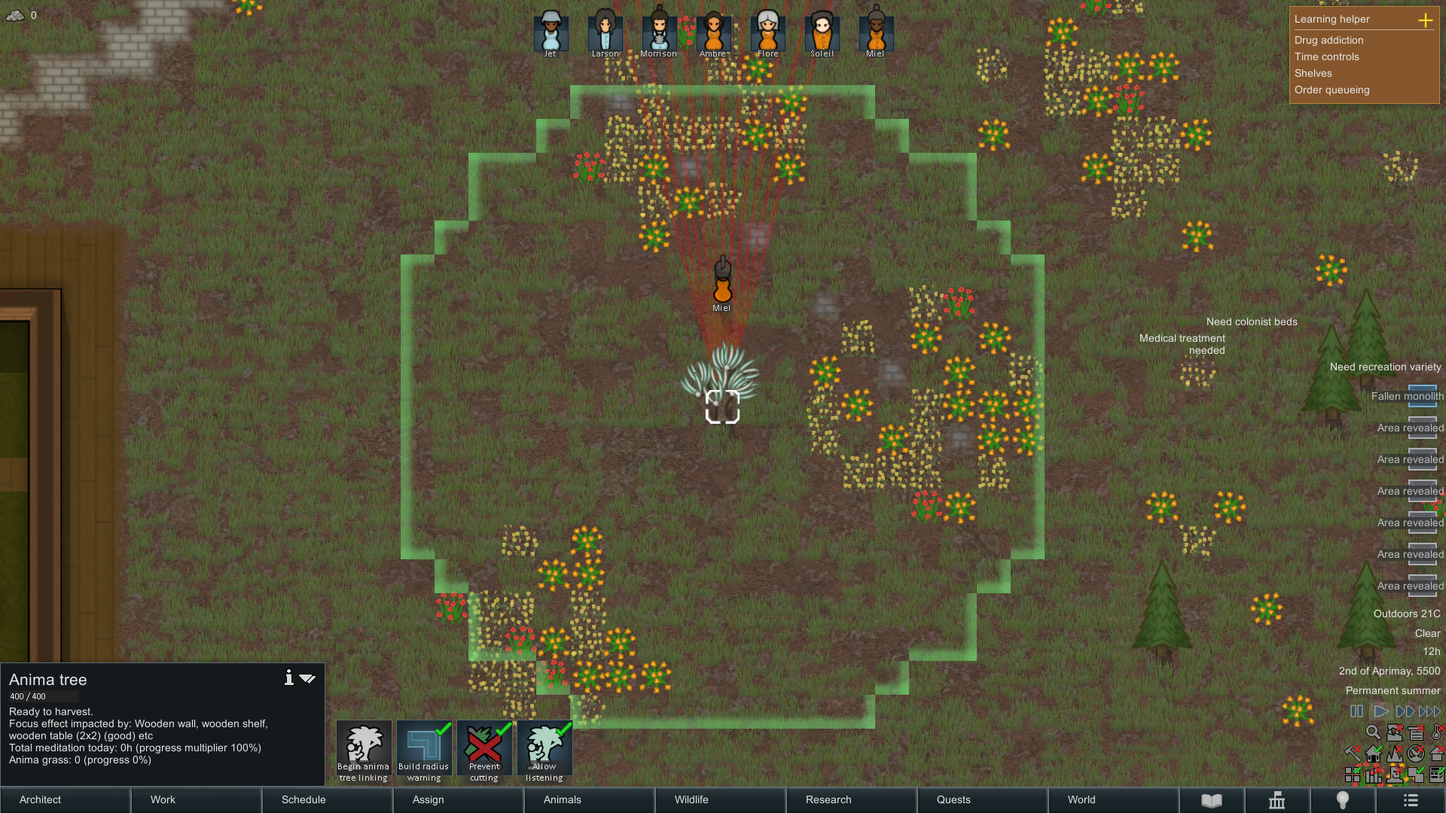
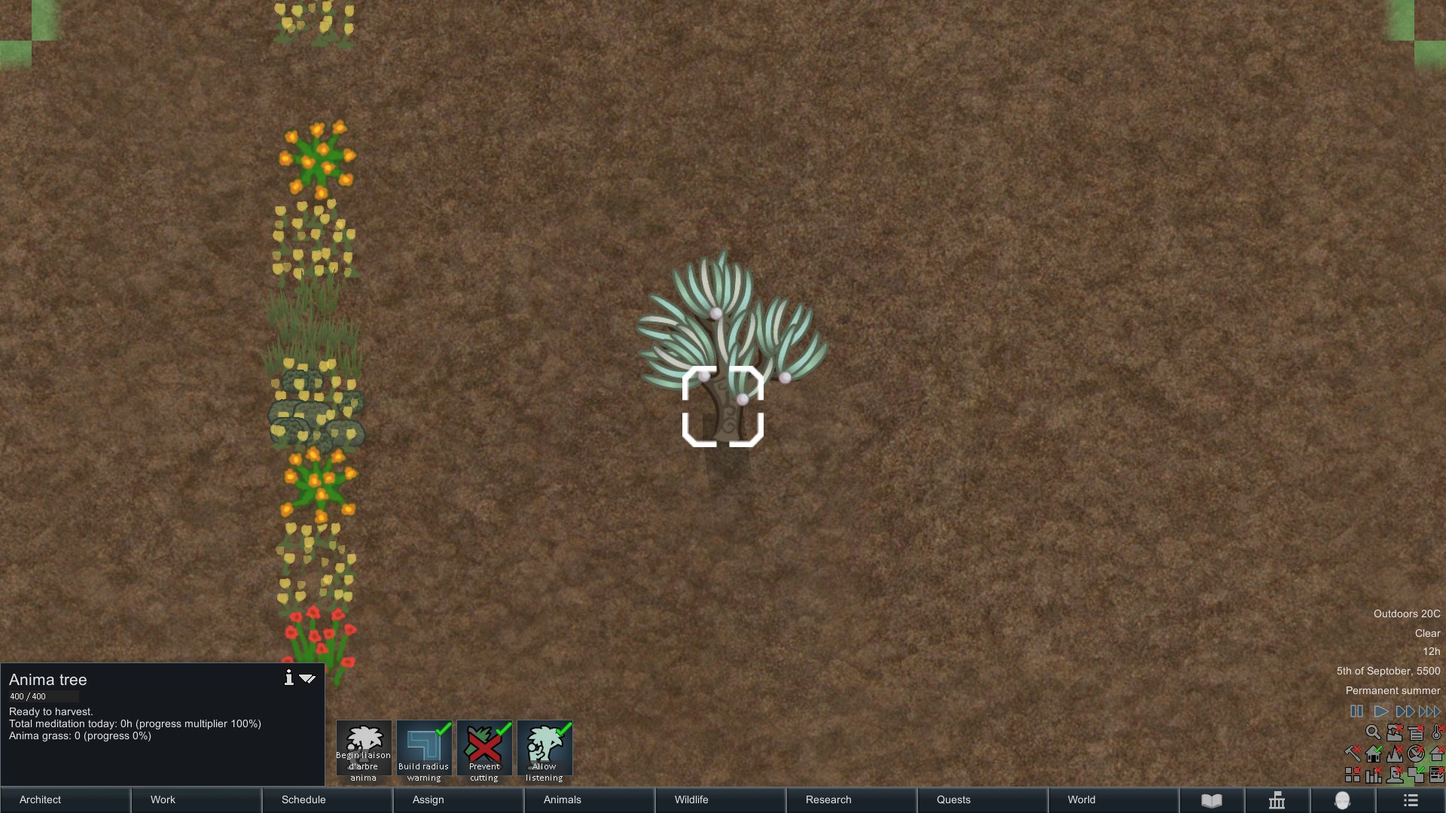
Gallery: image 3 on the Backlot, without the red focus lines
Run 4e27: the artificial buildings within 30 cells are hidden, the colonist
bar, the messages, the letters and the alerts are cleared.

diff --git a/STATUS.md b/STATUS.md
@@ -20,12 +20,11 @@ publication_changelog_review_sha: 5602e1bb6c807b7d927888d1dd711a545feee811
 code_review_sha: 23bf286757554c813a4299650528b4dd1c63864e
 remaining:
   - unverified: user report 2026-10-08 (Workshop comment): with Replantable Anima Trees (Continued) (3503586725, `Spuffy.AnimaReplant`), pawns stop listening on their own to a replanted tree (the manual order still works). NOT reproduced: that mod only removes `minifiedDef` from `Plant_TreeAnima`; replanted through the game's own install blueprint, 20 cells away, the tree keeps its object, comps and toggle, and a bored colonist (joy 10 percent, schedule joy, no work) walks to it and listens on their own (`07-replanted-tree.feature`, run 15c9, 2026-10-08). Tracked in issue #1 (labels bug, not reproduced); the commenter was asked on 2026-10-08 for the exact steps, version and delay; 2026-10-09: the commenter (Markizo) says the tree sat in a room on a gravship, and works once replanted outside; cause found, `unroofedOnly` on the giver (runs 0ef3, 589f), fixed in 5fa7c4a; still unverified that his room is roofed
-  - defect: gallery image 3 (`3-the-tree-selected.jpg`) is still the 2026-09-27 capture on the old studio, not on SanctuaryBacklot; the Backlot capture of run 135f was refused (red radius-warning lines across the frame, an untranslated "Begin liaison d'arbre anima" label); replay `the tree selected with its toggle` with those two hidden
   - unverified: the three conditional passes (sound, studio, removal) ran before 5967dd2 (a log-once guard, no behaviour change); they stand as sole proof but were not replayed on the published build
   - unverified: each sound report (09-27) holds one red, the scenario of the other modlist; replay each pass with the scenario selected by name for a report with no red
 session:      local_ae6c16b5-ec90-4f74-83f7-1d66630344c3
-updated:      2026-10-10, shootGallery[1.0.3]: playTests exit criteria hold (French texts 7398 green); gallery images 1 and 2 accepted, image 3 still the 2026-09-27 studio capture (refused on the Backlot: red radius lines); table below
-protocols_read_sha: 973768851d9eb1967a275d98fbf1c660d4fdce88
+updated:      2026-10-10, shootGallery[1.0.3]: gallery images 1 to 3 on the Backlot, image 3 accepted by the session (run 4e27); next: mountPreview, writeDocs
+protocols_read_sha: f8bf9634403f684c5a0ca2ffcd724139134fba1d
 ---
 
 # Anima Song — status
@@ -157,4 +156,4 @@ Gallery candidates of run `fc87` refused by the owner (2026-10-08) and deleted; 
 | 0 | `0-preview.png` | copy of `Mod/About/Preview.png` | in place |
 | 1 | `1-the-tree-singing.jpg` | Backlot `bare-clearing`, run `342d`, stools, 2026-10-09 | accepted by the owner, 2026-10-09 |
 | 2 | `2-the-right-click-menu.jpg` | Backlot, run `19c9`, 20C | accepted 2026-10-08 |
-| 3 | `3-the-tree-selected.jpg` | old studio, run `a32d`, 2026-09-27 | accepted then; redo on the Backlot open (`remaining`) |
+| 3 | `3-the-tree-selected.jpg` | Backlot `bare-clearing`, run `4e27`, 2026-10-10 | accepted by the session as director, 2026-10-10 |

diff --git a/PUBLICATION.md b/PUBLICATION.md
@@ -214,3 +214,5 @@ Not posted yet. One message, on the Continued page, crediting the maintainer and
 ```
 Hi Kaetie_ and Dark Passerida: thank you for [url=https://steamcommunity.com/sharedfiles/filedetails/?id=3503586725]Replantable Anima Trees (Continued)[/url] (and for the [url=https://steamcommunity.com/sharedfiles/filedetails/?id=2586765823]original[/url]). A player of my mod Anima Song (colonists sit around an anima tree and listen to it sing) used yours, so I tested the two together: a replanted tree keeps its listening toggle and colonists still go to it. Nothing of yours is used, patched or required, it just made me check :) Have a nice day!
 ```
+
+- **Image 3 replaced (session as director, 2026-10-10)**: `3-the-tree-selected.jpg` is now the JPEG copy (412 KB, quality 88) of run `4e27` (`pickle-run-2026-10-10-gallery3f`, Backlot `bare-clearing`). The selected tree draws red focus lines to every artificial building within 27.9 cells (its `FocusStrengthOffset_ArtificialBuildings`), so the scenario hides them (`the artificial buildings within 30 cells ... are hidden`, which also makes roofs collapse: the letters and alerts are cleared before the shot), hides the colonist bar and the vanometric cell, and clears the messages. The gizmo label "Begin liaison d'arbre anima" (not this mod's, French text in an English pass) stays, accepted by the owner. It is a UI screenshot, not staged.
